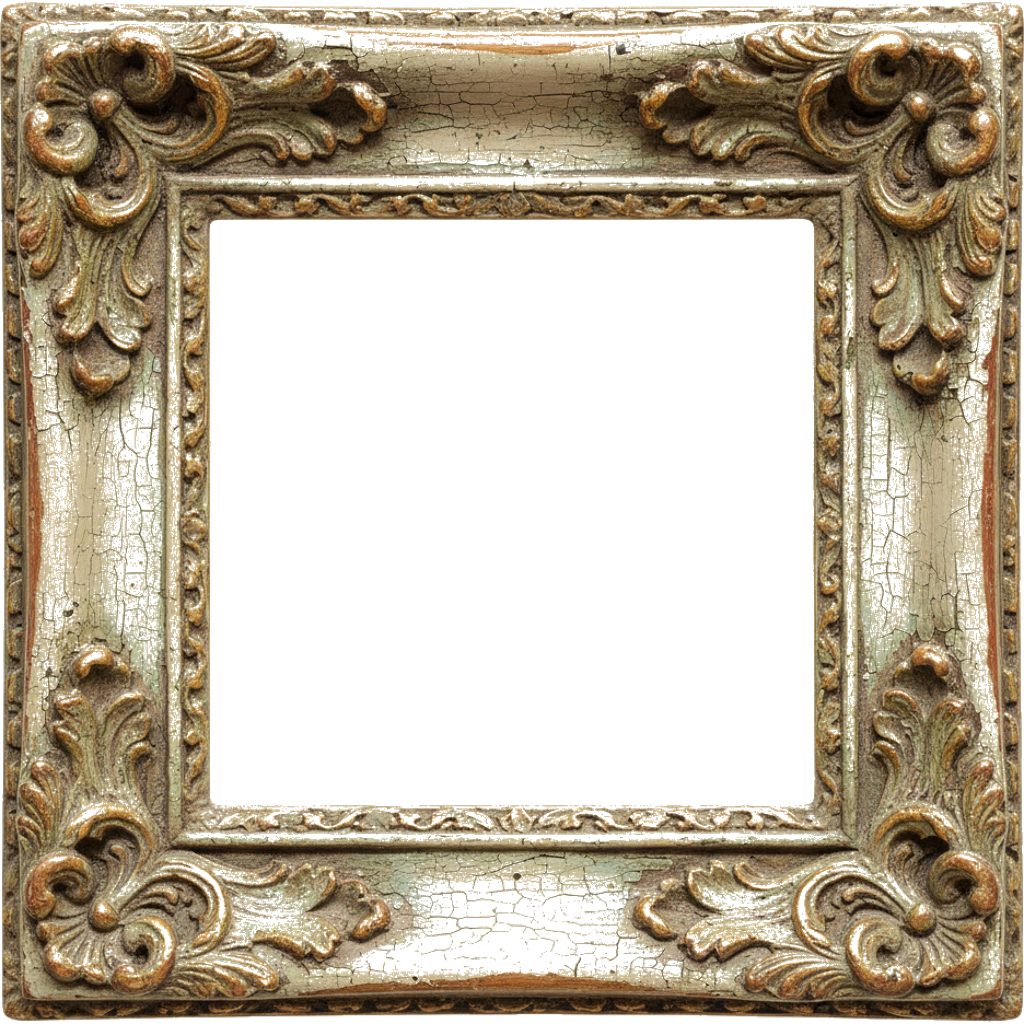
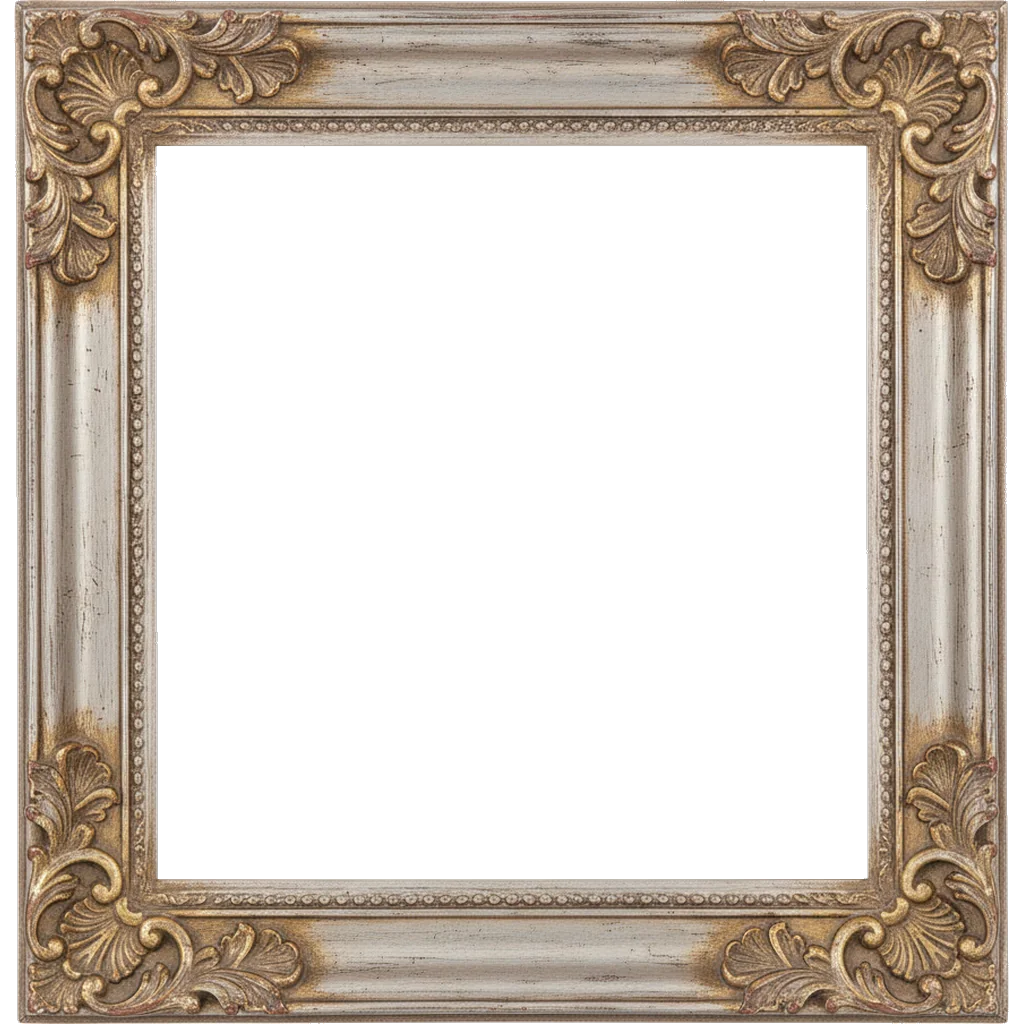
feat(frames): 金縁・アンティーク額縁を細枠デザインに刷新、木目は overflow で細く見せる
- frame-gold / frame-antique の PNG を Gemini 2.5 Flash Image で再生成し、
  細い枠内に4角の装飾彫刻が完結するデザインに差し替え。
  副次効果で webp サイズが 1.1M/1.2M → 88K/123K に縮小。
- frame-wood のみ overflow 倍率 (1.32x) で PNG を拡大描画し外周を crop
  することで細く見せる。素直な木目なので crop しても破綻しない。
- FRAME_INNER_RATIO を新 PNG の実測値 (gold 0.72 / antique 0.69) に更新。

diff --git a/upload.html b/upload.html
@@ -5815,13 +5815,23 @@
       // 残りの透明領域 (inner_w, inner_h) を実測した値を設定。
       // frame 型: 内側矩形、wappen 型: 内側円の直径。
       const FRAME_INNER_RATIO = {
-        "frame-gold": 0.55,
+        "frame-gold": 0.72,
         "frame-wood": 0.6,
-        "frame-antique": 0.56,
+        "frame-antique": 0.69,
         "wappen-laurel-navy": 0.7,
         "wappen-laurel-gold": 0.65,
         "wappen-rope-red": 0.62,
         "wappen-zigzag-green": 0.74,
+      };
+
+      // 枠を細く見せるため PNG を canvas より大きく描画し外周を crop する設定。
+      // 1.0 なら従来通り。wood は素直な木目なので crop しても違和感なし。
+      // gold / antique は装飾付きなので crop すると角が切れて不自然になるため、
+      // 代わりに PNG 自体を「細枠で角の装飾が完結する」デザインに作り直している。
+      const FRAME_BORDER_OVERFLOW = {
+        "frame-gold": 1.0,
+        "frame-wood": 1.32,
+        "frame-antique": 1.0,
       };
 
       async function compositeFrameOnArt(artUrl, frameOpt) {
@@ -5842,7 +5852,11 @@
         // フレーム画像自体を bbox crop+resize で canvas 一杯に拡大済みなので
         // 画像の opaque 領域が canvas 端まで届く＝外周に何も描かなくて良い。
         const innerRatio = FRAME_INNER_RATIO[frameOpt.id] || 0.55;
-        const innerSize = SIZE * innerRatio;
+        const borderOverflow =
+          frameOpt.type === "frame"
+            ? FRAME_BORDER_OVERFLOW[frameOpt.id] || 1.0
+            : 1.0;
+        const innerSize = SIZE * innerRatio * borderOverflow;
 
         // innerSize より少し大きめ (10%) に描画して、枠の透明穴が小さい方向に
         // 揺らいでもアートの白背景が露出しないようにする。はみ出たアートは
@@ -5875,9 +5889,12 @@
           ctx.drawImage(artImg, (SIZE - dw) / 2, (SIZE - dh) / 2, dw, dh);
         }
 
-        // フレーム/ワッペンPNGをオーバーレイ (透明中央 + 不透明フレーム本体)
+        // フレーム/ワッペンPNGをオーバーレイ。frame 型は枠を細く見せるため
+        // overflow 分だけ拡大描画して外周装飾を crop する。
         const frameImg = await loadFrameImg(frameOpt.src);
-        ctx.drawImage(frameImg, 0, 0, SIZE, SIZE);
+        const drawSize = SIZE * borderOverflow;
+        const drawOffset = (SIZE - drawSize) / 2;
+        ctx.drawImage(frameImg, drawOffset, drawOffset, drawSize, drawSize);
 
         return canvas.toDataURL("image/png");
       }
@@ -5988,7 +6005,13 @@
           if (!artImg.naturalWidth || !artImg.naturalHeight)
             throw new Error("zero dimensions");
           const innerRatio = FRAME_INNER_RATIO[frameOpt.id] || 0.5;
-          const coverSize = SIZE * innerRatio * 1.1; // 内側を完全に覆うため +10%
+          const borderOverflow =
+            frameOpt.type === "frame"
+              ? FRAME_BORDER_OVERFLOW[frameOpt.id] || 1.0
+              : 1.0;
+          const coverSize = SIZE * innerRatio * borderOverflow * 1.1;
+          const frameDrawSize = SIZE * borderOverflow;
+          const frameDrawOffset = (SIZE - frameDrawSize) / 2;
           if (frameOpt.type === "none") {
             const scale = Math.min(
               SIZE / artImg.naturalWidth,
@@ -6028,14 +6051,26 @@
             const dh = artImg.naturalHeight * scale;
             ctx.drawImage(artImg, (SIZE - dw) / 2, (SIZE - dh) / 2, dw, dh);
             const frameImg = await loadFrameImg(frameOpt.src);
-            ctx.drawImage(frameImg, 0, 0, SIZE, SIZE);
+            ctx.drawImage(
+              frameImg,
+              frameDrawOffset,
+              frameDrawOffset,
+              frameDrawSize,
+              frameDrawSize,
+            );
           }
         } catch (e) {
           // アート読込失敗時はフレームのみ表示
           if (frameOpt.src) {
             try {
               const frameImg = await loadFrameImg(frameOpt.src);
-              ctx.drawImage(frameImg, 0, 0, SIZE, SIZE);
+              const fallbackOverflow =
+                frameOpt.type === "frame"
+                  ? FRAME_BORDER_OVERFLOW[frameOpt.id] || 1.0
+                  : 1.0;
+              const fds = SIZE * fallbackOverflow;
+              const fdo = (SIZE - fds) / 2;
+              ctx.drawImage(frameImg, fdo, fdo, fds, fds);
             } catch (e2) {
               // noop
             }
